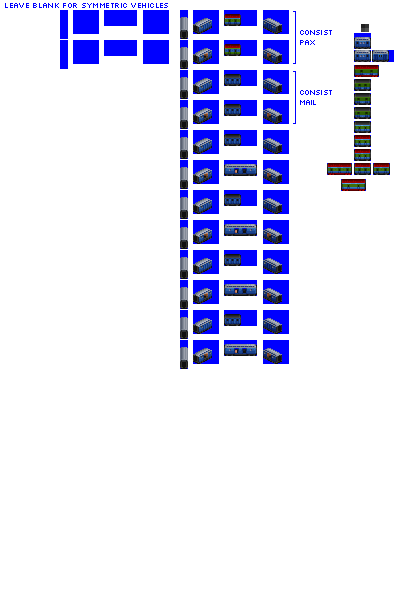
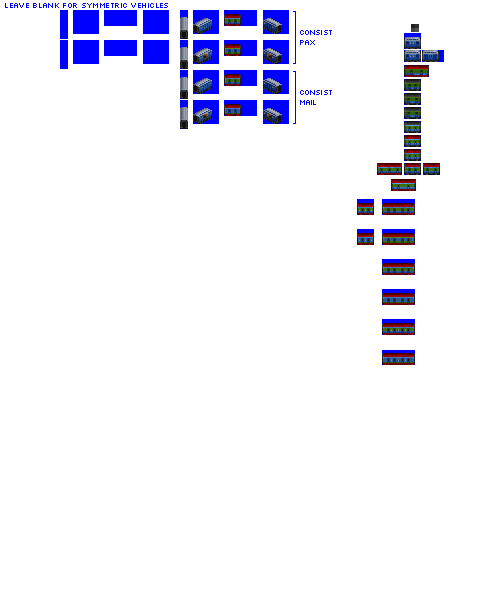
Change: improved mail car consists and some sprites

Changed region(s): [[0.0, 0.0, 0.99, 0.63]]

diff --git a/src/train.py b/src/train.py
@@ -742,8 +742,9 @@ class MailCarConsist(CarConsist):
         # * windows or similar variation for first, last vehicles (maybe also every nth vehicle?)
         self.generate_unit_roofs = True
         self.roof_type = 'pax_mail'
-        bonus_sprites = 1 if self.subtype == 'C' else 0
-        spriterow_group_mappings = {'mail': {'default': 0, 'first': bonus_sprites, 'last': bonus_sprites, 'special': 0},
+        brake_car_sprites = 1 if self.subtype in ['B', 'C'] else 0
+        bonus_sprites = 2 if self.subtype in ['C'] else 0
+        spriterow_group_mappings = {'mail': {'default': 0, 'first': brake_car_sprites, 'last': brake_car_sprites, 'special': bonus_sprites},
                                     'pax': {'default': 0, 'first': 0, 'last': 0, 'special': 0}}
         self.gestalt_graphics = GestaltGraphicsConsistSpecificLivery(spriterow_group_mappings, consist_ruleset='mail_cars')
 

diff --git a/src/vehicles/mail_cars.py b/src/vehicles/mail_cars.py
@@ -97,7 +97,7 @@ def main():
     consist.add_unit(type=TrainCar,
                      capacity=12,
                      vehicle_length=4,
-                     chassis='4_axle_solid_express_24px')
+                     chassis='2_axle_solid_express_16px')
 
 
     consist = MailCarConsist(roster='pony',
